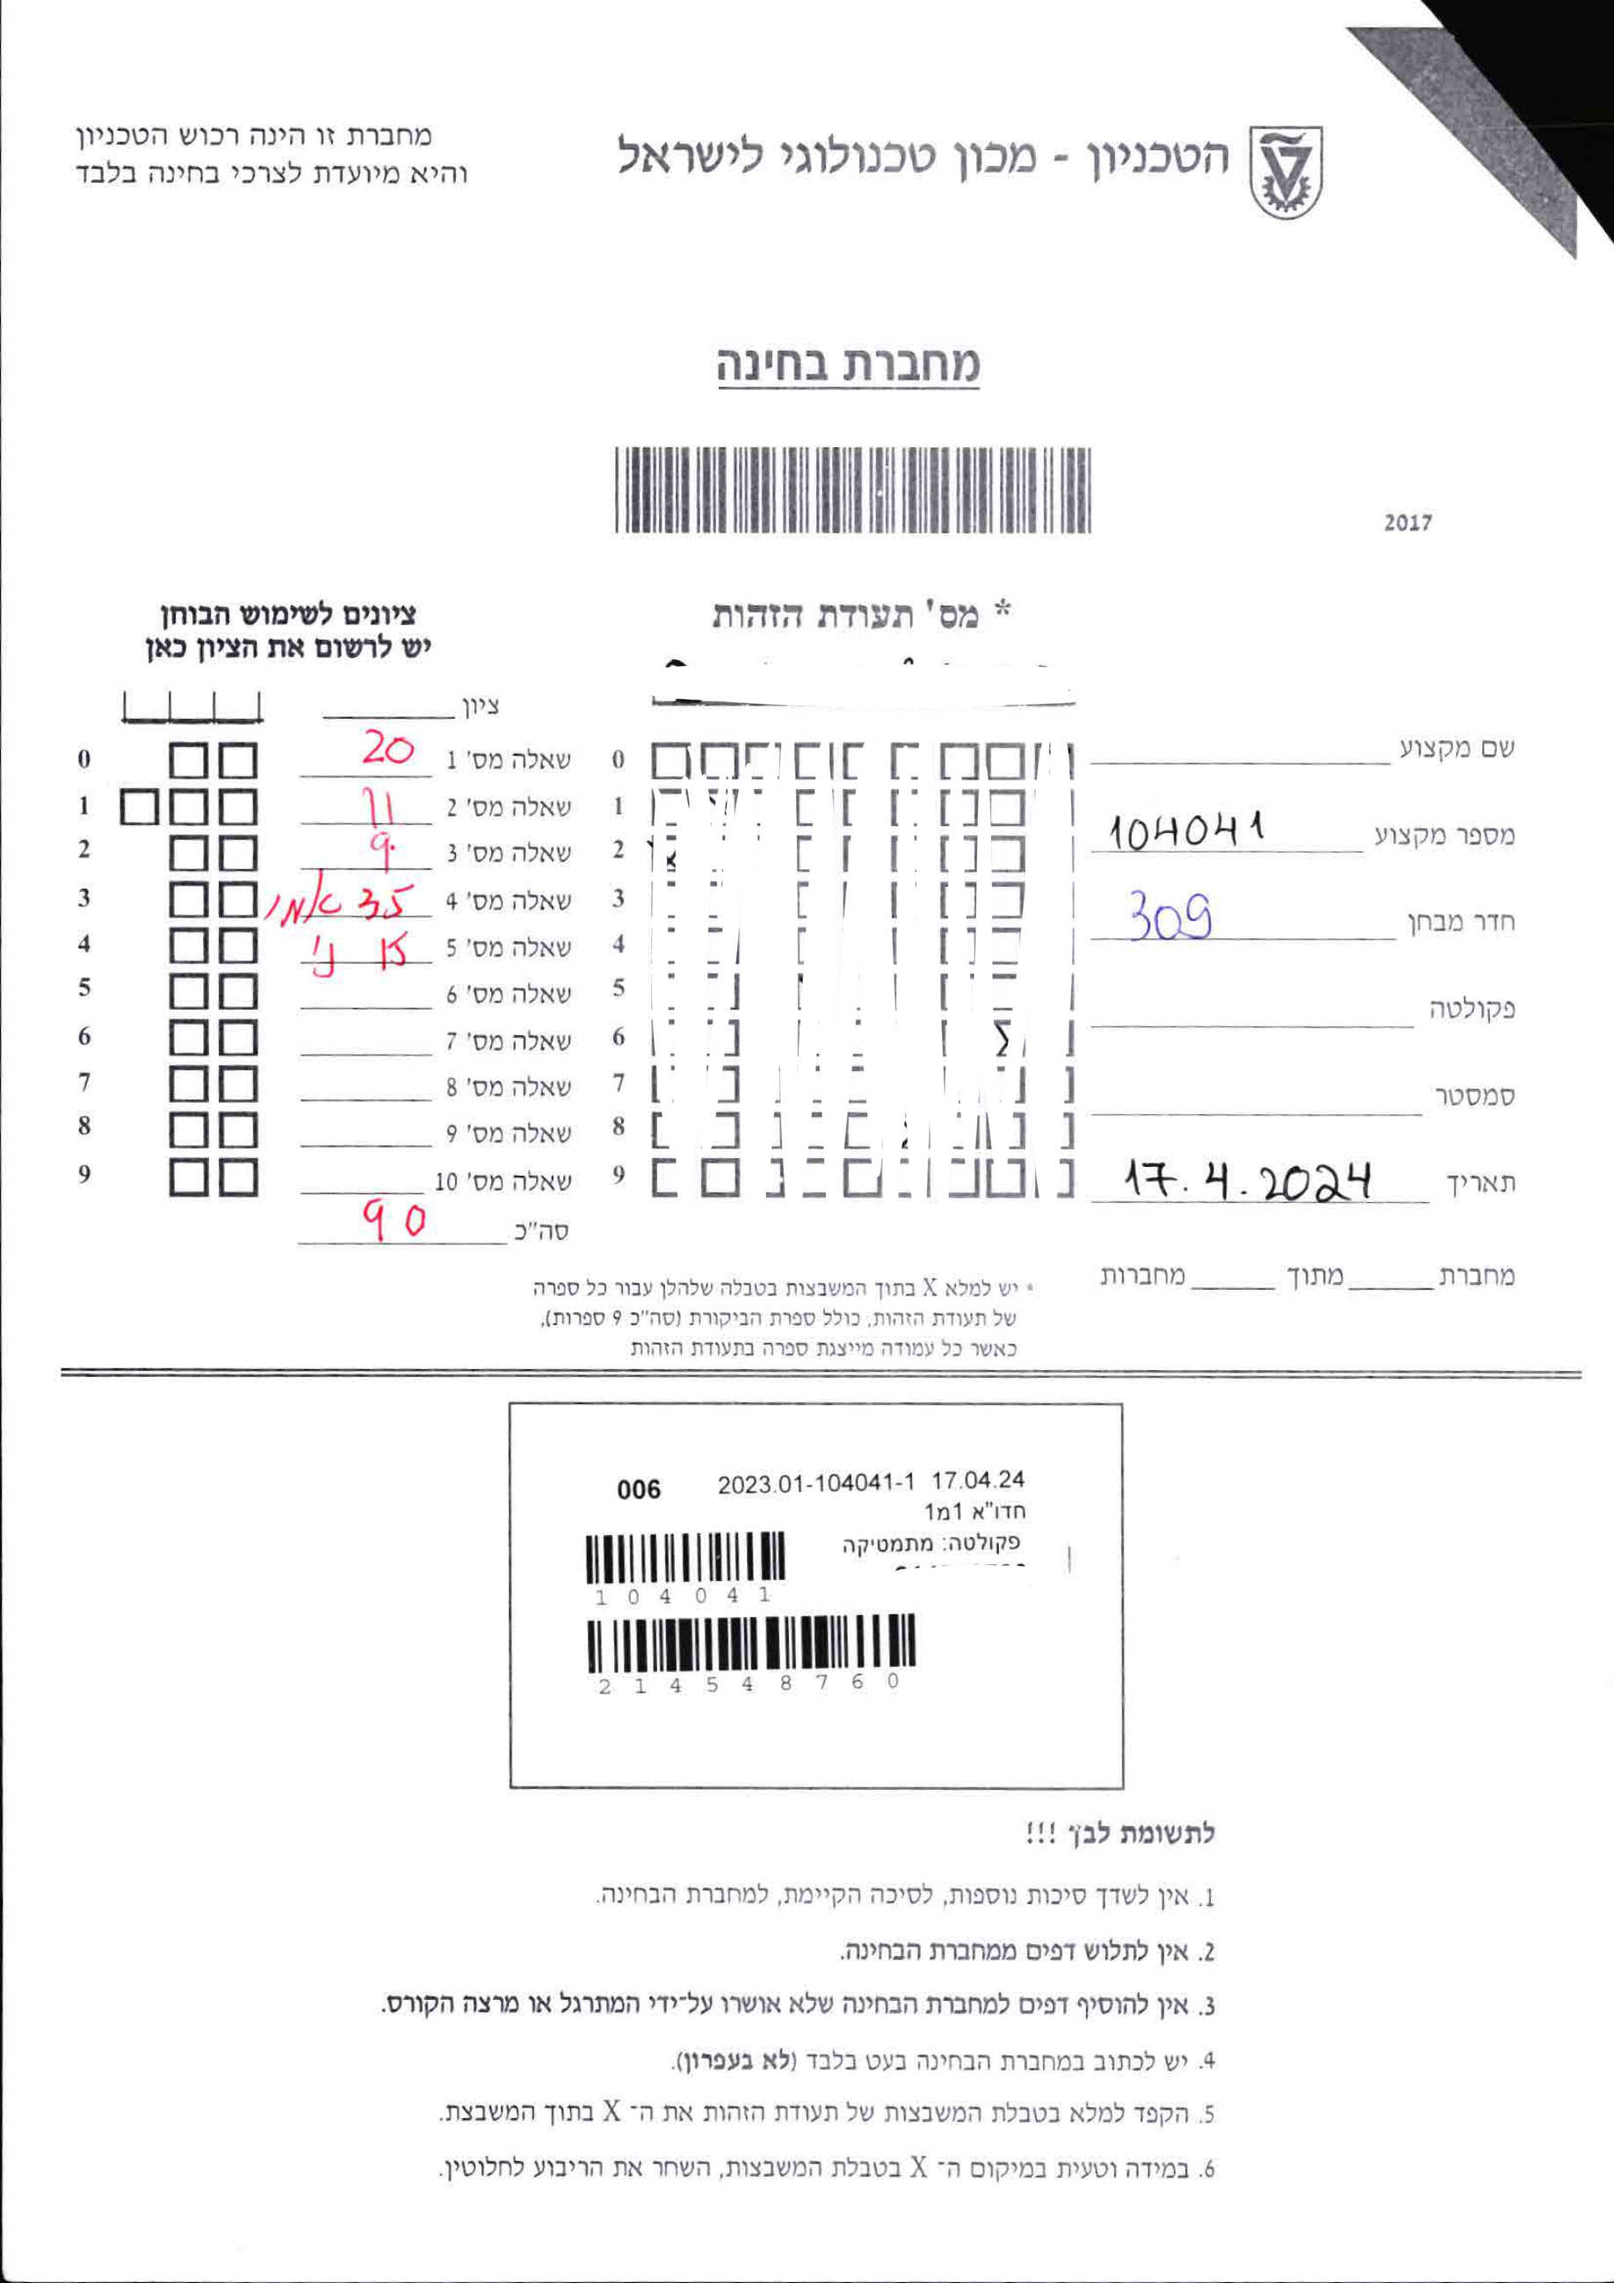
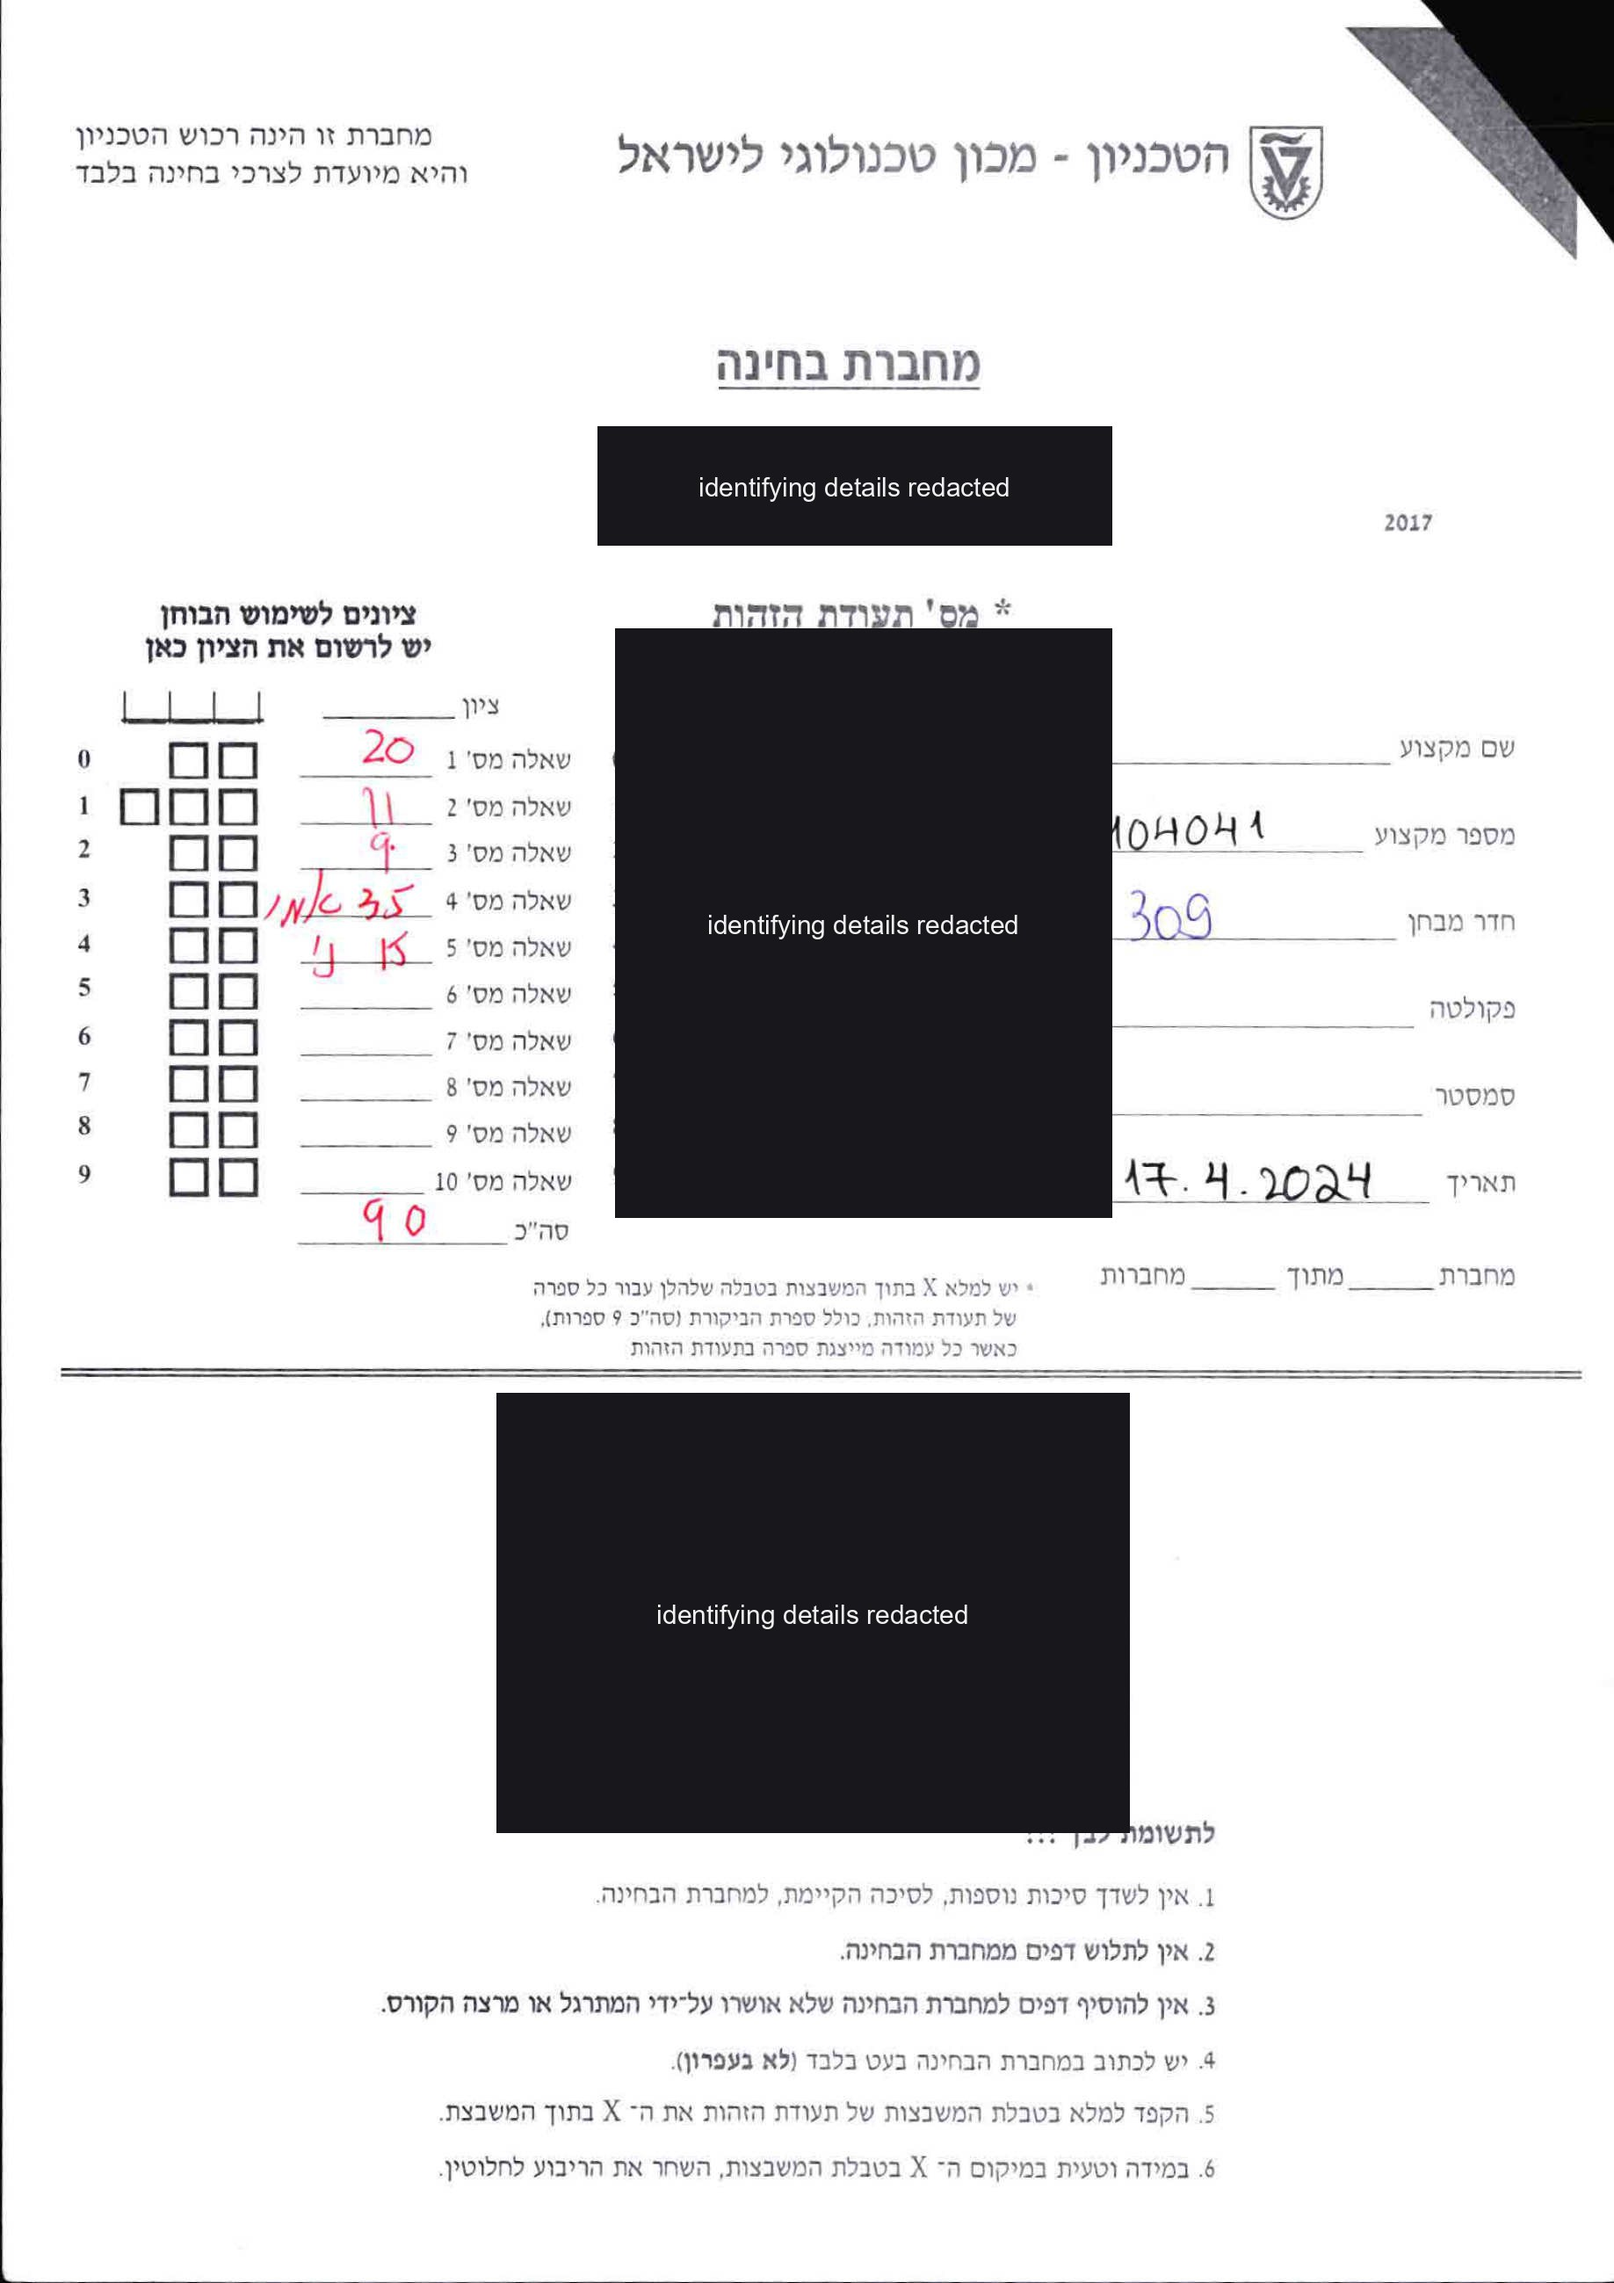
Round-8 fixes: redact cover identifiers, close the solve-verb guard gap, never commit an unfinished review
- The two served cover previews (page-01.jpg) black-box the booklet barcode,
  the ID digits + the X-grid that encodes them, and the bottom sticker with
  its personal serials. The course number, date, room, and the red grade
  marks -- everything the demo story needs -- remain visible. (The scans were
  published by the students themselves; the redaction removes any doubt.)
- Guard: imperative solve/answer/compute requests ("Solve this Calculus 1
  exam question for me", Hebrew equivalents) are tutoring intent and refuse
  at zero tokens unless an explicit grading verb restores scope. 14-case
  suite incl. descriptive uses ("check how the student solved...") passes.
- Reflection: a loop whose token budget died mid-review can no longer commit
  its unreviewed regrade -- reflection_incomplete now escalates with an
  honest note. (No bundled capture had committed such a grade, so captures
  stay consistent without a refresh.)

All prior suites, regression, and gates green.

Changed region(s): [[0.3723, 0.1871, 0.7137, 0.5612], [0.3103, 0.5924, 0.7137, 0.8106]]

diff --git a/checkmate/orchestrator.py b/checkmate/orchestrator.py
@@ -248,6 +248,17 @@ def run_agent(images: list[ImageInput], instructions: str = "", source_label: st
             # A dispute the loop DID resolve (the Grader accepted the critique and the
             # Reflector approved, or the regrade landed on the proposal) is the Reflection
             # loop working as designed and commits normally.
+            # A review that ran out of token budget mid-loop never finished checking the
+            # grade it was reviewing -- an unfinished review must not commit. (APPROVE
+            # always breaks the loop before the budget check, so `approved` here is
+            # necessarily False; kept in the condition for clarity.)
+            if ("reflection_incomplete" in grade.flags and not approved
+                    and grade.status != "escalate"):
+                grade = Grade(**{**grade.__dict__, "status": "escalate",
+                                 "feedback": ("The review budget ran out before the "
+                                              "reflection loop finished checking this grade; "
+                                              "sent to a human rather than committing an "
+                                              "unfinished review. " + grade.feedback)})
             contested = (abs(last_proposal - grade.score)
                          if (last_proposal is not None and not approved) else 0.0)
             band = max(CONFIG.reflector_disagreement_floor,

diff --git a/checkmate/guard.py b/checkmate/guard.py
@@ -45,7 +45,10 @@ _MATH_RE = re.compile(
 # "step by step" describe a lesson, not a grading job -- even when grading verbs appear.
 _TUTOR_RE = re.compile(
     r"\b(teach|explain|tutor|walk me through|show me how|step[- ]by[- ]step|how (?:do|to))\b|"
-    r"תלמד|למד אותי|תסביר|הסבר|צעד אחר צעד",
+    # imperative solve/answer requests ("Solve this exam question for me") are lesson
+    # requests too -- an object determiner keeps this from firing on descriptive uses
+    r"\b(?:solve|answer|compute|calculate)\s+(?:this|that|the|my|these|a|an)\b|"
+    r"תלמד|למד אותי|תסביר|הסבר|צעד אחר צעד|פתור|תפתור|פתרי|לפתור",
     re.IGNORECASE)
 
 # Explicit negation of grading ("do not grade", "without grading", "instead of grading") --
